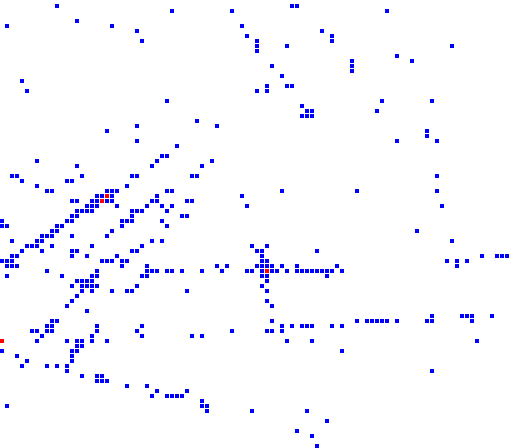
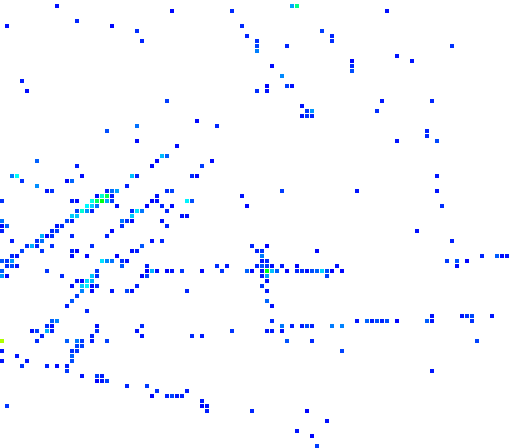
Fix error in restful docs (#176)
* Adjust installation doc for restful

* Fix conflicts

* Fix conflicts

* Fix error in docs

* Add img

* Fix error

diff --git a/doc-cn/source/restful/restful_quick_start_on_spark.md b/doc-cn/source/restful/restful_quick_start_on_spark.md
@@ -205,8 +205,8 @@ $ pip install requests
 >>> sql = "create table nyc_taxi as (select VendorID, to_timestamp(tpep_pickup_datetime,'yyyy-MM-dd HH:mm:ss XXXXX') as tpep_pickup_datetime, to_timestamp(tpep_dropoff_datetime,'yyyy-MM-dd HH:mm:ss XXXXX') as tpep_dropoff_datetime, passenger_count, trip_distance, pickup_longitude, pickup_latitude, dropoff_longitude, dropoff_latitude, fare_amount, tip_amount, total_amount, buildingid_pickup, buildingid_dropoff, buildingtext_pickup, buildingtext_dropoff from raw_data where (pickup_longitude between -180 and 180) and (pickup_latitude between -90 and 90) and (dropoff_longitude between -180 and 180) and  (dropoff_latitude between -90 and 90))"
 >>> payload = {
 ... "input_data": {
-... "sql": sql,
-... }
+... "sql": sql
+... },
 ... "collect_result": "0"
 ... }
 >>>
@@ -229,11 +229,11 @@ $ pip install requests
 >>> 
 >>> sql = "select count(*) as num_rows from nyc_taxi"
 >>> payload = { 
-    "input_data":{
-        "sql": sql
-    },
-    "collect_result": "0"
-}
+... "input_data":{
+...     "sql": sql
+... },
+... "collect_result": "0"
+... }
 >>> 
 >>> r = requests.post(url="http://127.0.0.1:8080/query", headers={"Content-Type": "application/json"}, data=json.dumps(payload))
 >>> r.json()
@@ -311,7 +311,7 @@ $ pip install requests
 
 点图的绘制结果如下：
 
-![点图](../../../img/restful-result/pointmap.png)
+![点图](../../../img/restful-result/pointmap_spark.png)
 
 ### 绘制带权点图
 
@@ -323,11 +323,11 @@ $ pip install requests
 >>> 
 >>> payload = {
 ... "input_data": {
-...     "sql": "SELECT ST_Point (pickup_longitude, pickup_latitude) AS point, total_amount AS color, fare_amount AS size FROM nyc_taxi"
+...     "sql": "SELECT ST_Point (pickup_longitude, pickup_latitude) AS point, total_amount AS color, fare_amount AS size FROM nyc_taxi limit 200"
 ... },
 ... "params": {
-...     "width": 1024,
-...     "height": 896,
+...     "width": 512,
+...     "height": 448,
 ...     "bounding_box": [
 ...         -73.998427,
 ...         40.730309,
@@ -337,7 +337,7 @@ $ pip install requests
 ...     "opacity": 1.0,
 ...     "coordinate_system": "EPSG:4326",
 ...     "size_bound": [0, 10],
-...     "color_bound": [0, 2],
+...     "color_bound": [0, 20],
 ...     "color_gradient": ["#115f9a", "#d0f400"]
 ... }
 ... }
@@ -351,7 +351,7 @@ $ pip install requests
 
 带权点图的绘制结果如下：
 
-![带权点图](../../../img/restful-result/weighted_pointmap.png)。
+![带权点图](../../../img/restful-result/weighted_pointmap_spark.png)。
 
 ### 绘制热力图
 
@@ -389,7 +389,7 @@ $ pip install requests
 
 热力图的绘制结果如下：
 
-![热力图](../../../img/restful-result/heatmap.png)
+![热力图](../../../img/restful-result/heatmap_spark.png)
 
 ### 绘制轮廓图
 
@@ -435,7 +435,7 @@ $ pip install requests
 
 轮廓图的绘制结果如下：
 
-![轮廓图](../../../img/restful-result/choroplethmap.png)
+![轮廓图](../../../img/restful-result/choroplethmap_spark.png)
 
 ### 绘制图标图
 
@@ -448,10 +448,10 @@ $ pip install requests
 >>> import json
 >>>
 >>> # 本例中的图标文件可通过以下命令获取：
->>> # wget https://github.com/zilliztech/arctern-docs/raw/branch-0.1.x/img/icon/icon-viz.png
+>>> # wget https://github.com/zilliztech/arctern-docs/raw/branch-0.1.x/img/icon/arctern-logo.png
 >>>
 >>> # icon_path 为待显示图标的绝对路径
->>> icon_path = "/path/to/icon-viz.png"
+>>> icon_path = "/path/to/arctern-logo.png"
 >>> payload = {
 ... "input_data": {
 ...     "sql": "select ST_Point(pickup_longitude, pickup_latitude) as point from nyc_taxi where ST_Within(ST_Point(pickup_longitude, pickup_latitude), ST_GeomFromText('POLYGON ((-73.9616334766551 40.704739019597156, -73.94232850242967 40.704739019597156, -73.94232850242967 40.728133570887906 ,-73.9616334766551 40.728133570887906, -73.9616334766551 40.704739019597156))')) limit 25"
@@ -480,7 +480,7 @@ $ pip install requests
 
 图标图的绘制结果如下：
 
-![图标图](../../../img/restful-result/icon_viz.png)
+![图标图](../../../img/restful-result/icon_viz_spark.png)
 
 ### 绘制渔网图
 
@@ -513,7 +513,7 @@ $ pip install requests
 ...       ],
 ...       "aggregation_type": "sum"
 ...   }
-}
+... }
 >>> 
 >>> r = requests.post(url="http://127.0.0.1:8080/fishnetmap", headers={"Content-Type": "application/json"}, data=json.dumps(payload))
 >>> 
@@ -525,7 +525,7 @@ $ pip install requests
 
 渔网图的绘制结果如下：
 
-![渔网图](../../../img/restful-result/fishnetmap.png)
+![渔网图](../../../img/restful-result/fishnetmap_spark.png)
 
 ### 删除数据表
 
@@ -541,7 +541,7 @@ $ pip install requests
 >>> payload = {
 ... "input_data": {
 ...    "sql": sql 
-... }
+... }，
 ... "collect_result": "0"
 ... }
 >>> 

diff --git a/doc-cn/source/restful/webserver_installation_config.md b/doc-cn/source/restful/webserver_installation_config.md
@@ -1,6 +1,6 @@
 # Arctern RESTful Server 安装与配置
 
-Arctern RESTful Server 依赖于 Apache Zeppelin 以及 Conda，因此安装 Arctern RESTful Server 前需要先安装 Apache Zeppelin 以及 Conda。
+以下为 Conda 环境下的安装过程，在安装 Arctern RESTful Server 前请安装 Conda。
 
 > **注意：** Conda 包括 Anaconda 和 Miniconda，建议使用 Miniconda。
 
@@ -26,7 +26,52 @@ Arctern RESTful Server 仅负责接收和解析 RESTful 请求，实际操作由
 * [离线安装 Arctern PySpark 后台](../spark/installation_and_deployment/offline_install_arctern_on_spark_cn.md)
 * [基于 Docker Compose 部署](../spark/installation_and_deployment/deploy-with-docker-compose-cn.md)
 
+## 安装 Arctern RESTful Server
+
+1. 执行以下命令为 Arctern RESTful Server 构建 Conda 环境。此处使用的环境名为 `arctern_server_env`，你可根据需求自行选择合适的环境名称。
+
+```bash
+$ conda create -n arctern_server_env -c conda-forge python=3.7.6
+```
+
+> **注意：** 如果你在同一台计算机上安装 Arctern 后台系统和 Arctern RESTful Server，建议二者的环境名称是不同的。例如，Arctern 后台系统的名称是 `arctern_env`，Arctern RESTful Server 的名称是 `arctern_server_env`。
+
+2. 进入 `arctern_server_env` 虚拟环境：
+
+```bash
+$ conda activate arctern_server_env
+```
+
+3. 安装 Arctern RESTful Server：
+
+```bash
+$ conda install -c conda-forge -c arctern arctern-webserver
+```
+
+## 配置 Arctern RESTful Server Workspace
+
+目前 Arctern RESTful Server 支持 Python 以及 PySpark 两种数据处理后后台，下面是两种数据处理后台的配置指令。
+
+当使用 Python 作为数据处理后台时，使用如下命令进行配置：
+
+```bash
+cd xxx
+arctern-server config --arctern_server_port=8080 --zepplin_server_port=8888 –logfile=/log/path –loglevel=warn --interpreter_type=python --interpreter_path=/path/to/python
+```
+
+
+
+## 启动
+
+```bash
+arctern-server start --mode=release
+```
+
+
 ## 安装 Apache Zeppelin
+
+
+
 
 执行以下命令安装 Apache Zeppelin：
 

diff --git a/doc-cn/source/restful/restful_quick_start_on_python.md b/doc-cn/source/restful/restful_quick_start_on_python.md
@@ -203,8 +203,8 @@ $ pip install requests
 ...     "points": "ST_Point(raw_data.pickup_longitude, raw_data.pickup_latitude)"
 ... },
 ... "params": {
-...     "width": 1024,
-...     "height": 896,
+...     "width": 512,
+...     "height": 448,
 ...     "bounding_box": [-73.998427, 40.730309, -73.954348, 40.780816],
 ...     "coordinate_system": "EPSG:4326",
 ...     "point_color": "#2DEF4A",
@@ -240,8 +240,8 @@ $ pip install requests
 ...     "size_weights": "raw_data.total_amount"
 ... },
 ... "params": {
-...     "width": 1024,
-...     "height": 896,
+...     "width": 512,
+...     "height": 448,
 ...     "bounding_box": [
 ...         -73.998427,
 ...         40.730309,
@@ -251,7 +251,7 @@ $ pip install requests
 ...     "opacity": 1.0,
 ...     "coordinate_system": "EPSG:4326",
 ...     "size_bound": [0, 10],
-...     "color_bound": [0, 2],
+...     "color_bound": [0, 20],
 ...     "color_gradient": ["#115f9a", "#d0f400"]
 ... }
 ... }
@@ -335,7 +335,7 @@ $ pip install requests
 ...     ],
 ...     "color_bound": [
 ...         0,
-...         5
+...         15
 ...     ],
 ...     "opacity": 1,
 ...     "aggregation_type": "mean"
@@ -362,10 +362,10 @@ $ pip install requests
 >>> import json
 >>>
 >>> # 本例中的图标文件可通过以下命令获取：
->>> # wget https://github.com/zilliztech/arctern-docs/raw/branch-0.1.x/img/icon/icon-viz.png
+>>> # wget https://github.com/zilliztech/arctern-docs/raw/branch-0.1.x/img/icon/arctern-logo.png
 >>>
 >>> # icon_path 为待显示图标的绝对路径
->>> icon_path = "/path/to/icon-viz.png"
+>>> icon_path = "/path/to/arctern-logo.png"
 >>> payload = {
 ... "input_data": {
 ...     "points": "ST_Point(raw_data.pickup_longitude, raw_data.pickup_latitude)"

diff --git a/doc-cn/source/spark/installation_and_deployment/install_arctern_on_spark_cn.md b/doc-cn/source/spark/installation_and_deployment/install_arctern_on_spark_cn.md
@@ -122,7 +122,7 @@ Type "help", "copyright", "credits" or "license" for more information.
 $ tar -xvzf spark-3.0.0-preview2-bin-hadoop2.7.tgz
 ```
 
-创建 `spark-default.conf` 以及 `spark-env.sh` 文件。
+创建 `spark-defaults.conf` 以及 `spark-env.sh` 文件。
 
 ```bash
 $ cd spark-3.0.0-preview2-bin-hadoop2.7/conf
@@ -130,7 +130,7 @@ $ cp spark-defaults.conf.template spark-defaults.conf
 $ cp spark-env.sh.template spark-env.sh
 ```
 
-在文件 `spark-default.conf` 的最后添加以下内容。其中 `[path/to/your/conda]` 为 Conda 的安装路径。可以通过 `conda env info` 来查看当前的conda环境信息。
+在文件 `spark-defaults.conf` 的最后添加以下内容。其中 `[path/to/your/conda]` 为 Conda 的安装路径。可以通过 `conda env info` 来查看当前的conda环境信息。
 
 ```bash
 spark.executorEnv.PROJ_LIB [path/to/your/conda]/envs/arctern_env/share/proj
